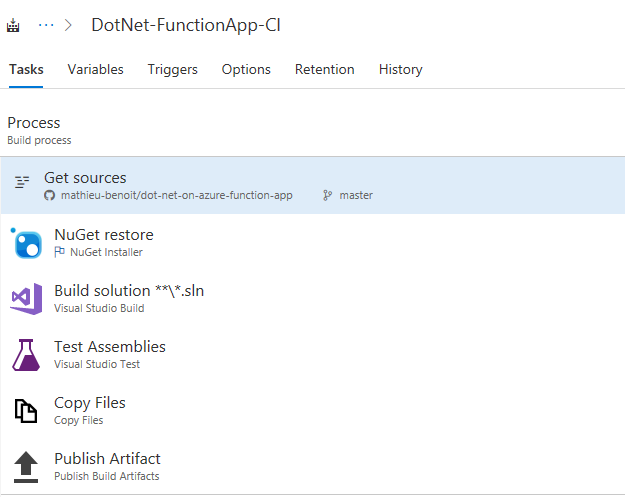
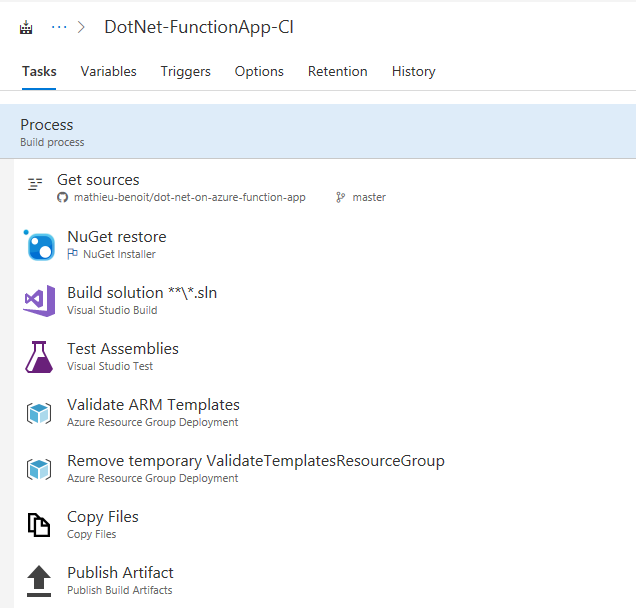
Sample unit test implementation + validate arm templates steps setup.

Changed region(s): [[0.0, 0.0905, 1.0, 0.996], [0.0912, 0.0302, 0.4864, 0.0604], [0.0, 0.0302, 0.0608, 0.0604]]

diff --git a/test/DotNetFunction.UnitTests/SampleTests.cs b/test/DotNetFunction.UnitTests/SampleTests.cs
@@ -1,0 +1,39 @@
+using Microsoft.VisualStudio.TestTools.UnitTesting;
+
+namespace DotNetFunction.UnitTests
+{
+    [TestClass]
+    public class SampleTests
+    {
+        [TestMethod]
+        public void TwoPlusTwoEqualsFour()
+        {
+            //Arrange
+            var expectedResult = 4;
+
+            //Act
+            var result = Add(2, 2);
+
+            //Assert
+            Assert.AreEqual(expectedResult, result);
+        }
+
+        [TestMethod]
+        public void TwoPlusTwoNotEqualsFive()
+        {
+            //Arrange
+            var unExpectedResult = 5;
+
+            //Act
+            var result = Add(2, 2);
+
+            //Assert
+            Assert.AreNotEqual(unExpectedResult, result);
+        }
+
+        int Add(int x, int y)
+        {
+            return x + y;
+        }
+    }
+}

diff --git a/docs/DotNet-FunctionApp-CI.md b/docs/DotNet-FunctionApp-CI.md
@@ -12,6 +12,7 @@ TODO
 
 ## Variables
 - BuildConfiguration = release
+- ValidateTemplatesResourceGroup = validate-templates-rg
 
 ## Repository
 - Repository Type = GitHub
@@ -48,6 +49,23 @@ TODO
   - Search folder = $(System.DefaultWorkingDirectory)
   - Build Platform = $(BuildPlatform)
   - Build Configuration = $(BuildConfiguration)
+- Validate ARM Templates
+  - Type = Azure Resource Group Deployment
+  - Version = 2.*
+  - Azure subscription = set appropriate
+  - Action = Create or update resource group
+  - Resource group = $(ValidateTemplatesResourceGroup)
+  - Location = East US
+  - Template location = Linked artifact
+  - Template = infra/templates/deploy.json
+  - Override template parameters = -storageName test -webAppName test
+  - Deployment mode = Validation only
+- Remove temporary ValidateTemplatesResourceGroup
+  - Type = Azure Resource Group Deployment
+  - Version = 2.*
+  - Azure subscription = set appropriate
+  - Action = Delete resource group
+  - Resource group = $(ValidateTemplatesResourceGroup)
 - Copy Files
   - Type = Copy Files
   - Version = 2.*

diff --git a/README.md b/README.md
@@ -10,3 +10,8 @@ Sample .NET method deployed on an Azure Function App.
 # Release Definition with VSTS
 
 - [Release - CD](/docs/DotNet-FunctionApp-CD.md)
+
+# Alternatives
+
+- Instead of having a compiled .NET method/library, use static files with C#, NodeJS, etc.
+- Instead of using a Consumption Plan to host the Azure Function, use an App Service Plan to leverage its capabilities: more slots, etc.
